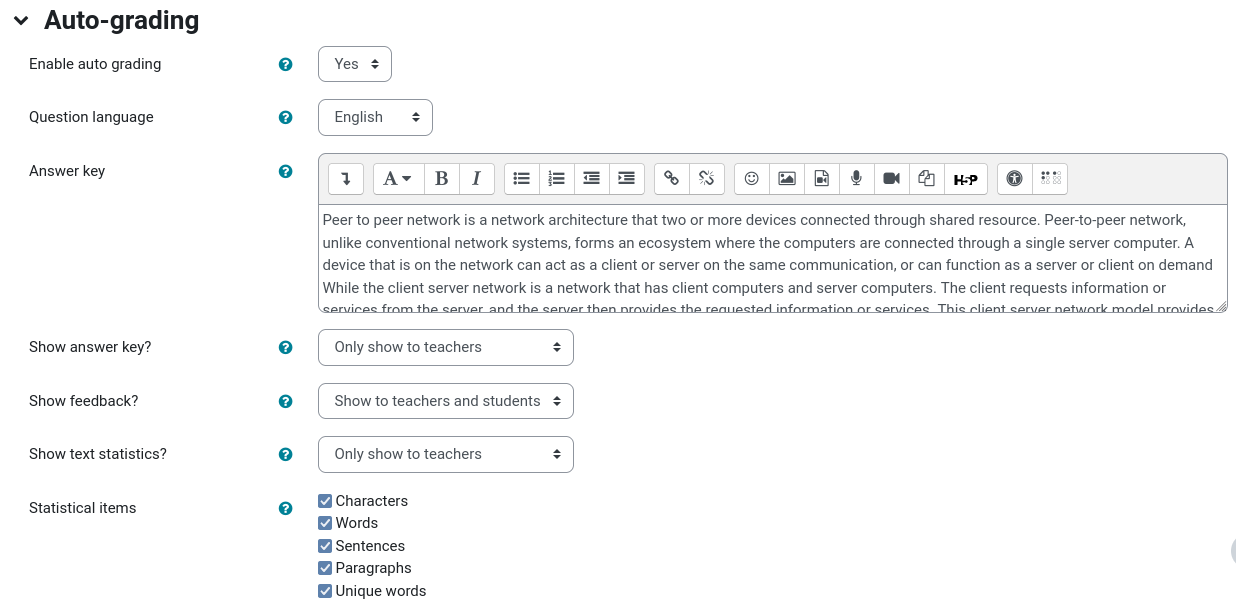
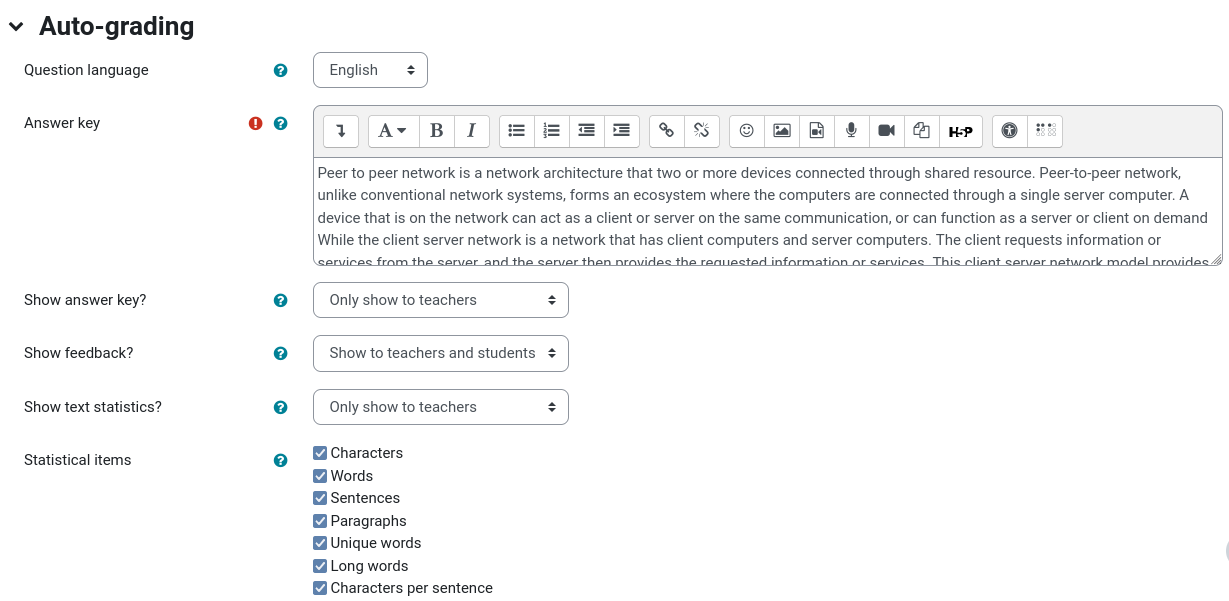
remove enable auto grading option

diff --git a/edit_essaysimilarity_form.php b/edit_essaysimilarity_form.php
@@ -56,26 +56,18 @@ class qtype_essaysimilarity_edit_form extends qtype_essay_edit_form {
     $mform->addElement('header', $header_name, $header_label);
     $mform->setExpanded($header_name, true);
 
-    $name = 'enableautograde';
-    $label = get_string($name, $plugin);
-    $mform->addElement('selectyesno', $name, $label);
-    $mform->setType($name, PARAM_INT);
-    $mform->setDefault($name, $this->get_default($name, 1));
-    $mform->addHelpButton($name, $name, $plugin);
-
     $name = 'questionlanguage';
     $label = get_string($name, $plugin);
     $mform->addElement('select', $name, $label, $this->language_options());
     $mform->addHelpButton($name, $name, $plugin);
     $mform->setType($name, PARAM_TEXT);
     $mform->setDefault($name, $this->get_default($name, $this->get_constant('NO_LANG')));
-    $mform->disabledIf($name, 'enableautograde', 'eq', 0);
     
     $name = 'answerkey';
     $label = get_string($name, $plugin);
     $mform->addElement('editor', $name, $label, [], $this->editoroptions);
     $mform->addHelpButton($name, $name, $plugin);
-    $mform->disabledIf($name, 'enableautograde', 'eq', 0);
+    $mform->addRule($name, get_string('requiredanswerkey', $plugin), 'required' , '', 'client');
 
     $name = 'showanswerkey';
     $label = get_string($name, $plugin);
@@ -83,7 +75,6 @@ class qtype_essaysimilarity_edit_form extends qtype_essay_edit_form {
     $mform->addHelpButton($name, $name, $plugin);
     $mform->setType($name, PARAM_INT);
     $mform->setDefault($name, $this->get_default($name, $this->get_constant('SHOW_NONE')));
-    $mform->disabledIf($name, 'enableautograde', 'eq', 0);
 
     $name = 'showfeedback';
     $label = get_string($name, $plugin);
@@ -91,7 +82,6 @@ class qtype_essaysimilarity_edit_form extends qtype_essay_edit_form {
     $mform->addHelpButton($name, $name, $plugin);
     $mform->setType($name, PARAM_INT);
     $mform->setDefault($name, $this->get_default($name, $this->get_constant('SHOW_TEACHERS_AND_STUDENTS')));
-    $mform->disabledIf($name, 'enableautograde', 'eq', 0);
 
     $name = 'showtextstats';
     $label = get_string($name, $plugin);
@@ -99,7 +89,6 @@ class qtype_essaysimilarity_edit_form extends qtype_essay_edit_form {
     $mform->addHelpButton($name, $name, $plugin);
     $mform->setType($name, PARAM_INT);
     $mform->setDefault($name, $this->get_default($name, $this->get_constant('SHOW_TEACHERS_ONLY')));
-    $mform->disabledIf($name, 'enableautograde', 'eq', 0);
 
     $name = 'textstatitems';
     $label = get_string($name, $plugin);
@@ -110,7 +99,6 @@ class qtype_essaysimilarity_edit_form extends qtype_essay_edit_form {
     }
     $mform->addGroup($elements, $name, $label, html_writer::empty_tag('br'), false);
     $mform->addHelpButton($name, $name, $plugin);
-    $mform->disabledIf($name, 'enableautograde', 'eq', 0);
     $mform->disabledIf($name, 'showtextstats', 'eq', $this->get_constant('SHOW_NONE'));
 
     foreach ($options as $value => $text) {
@@ -147,7 +135,6 @@ class qtype_essaysimilarity_edit_form extends qtype_essay_edit_form {
     $prevsection = 'responseoptions';
     $names = [
       'autograding',
-      'enableautograde',
       'questionlanguage',
       'answerkey',
       'showanswerkey',
@@ -167,7 +154,6 @@ class qtype_essaysimilarity_edit_form extends qtype_essay_edit_form {
     if (empty($question->options)) return $question;
 
     // Initialize fields that has numeric value.
-    $question->enableautograde = $question->options->enableautograde;
     $question->showanswerkey = $question->options->showanswerkey;
     $question->showfeedback = $question->options->showfeedback;
     $question->showtextstats = $question->options->showtextstats;

diff --git a/questiontype.php b/questiontype.php
@@ -61,7 +61,6 @@ class qtype_essaysimilarity extends question_type {
       "filetypeslist",
       "graderinfo",
       "graderinfoformat",
-      "enableautograde",
       "showfeedback",
       "answerkey",
       "answerkeyformat",
@@ -111,7 +110,6 @@ class qtype_essaysimilarity extends question_type {
       "filetypeslist"           => isset($question->filetypeslist) ? $question->filetypeslist : '',
       "graderinfo"              => $graderinfo,
       "graderinfoformat"        => $question->graderinfo['format'],
-      "enableautograde"         => $question->enableautograde,
       "showfeedback"            => $question->showfeedback,
       "answerkey"               => $question->answerkey['text'],
       "answerkeyformat"         => $question->answerkey['format'],
@@ -163,7 +161,6 @@ class qtype_essaysimilarity extends question_type {
       "filetypeslist"           => '',
       "graderinfo"              => '',
       "graderinfoformat"        => 0,
-      "enableautograde"         => 1,
       "showfeedback"            => self::SHOW_TEACHERS_AND_STUDENTS,
       "answerkey"               => '',
       "answerkeyformat"         => 1,

diff --git a/lang/en/qtype_essaysimilarity.php b/lang/en/qtype_essaysimilarity.php
@@ -32,8 +32,6 @@ $string['charspersentence'] = 'Characters per sentence';
 
 $string['datetime'] = '{$a->datetime}';
 
-$string['enableautograde'] = 'Enable auto grading';
-$string['enableautograde_help'] = 'If enabled, the answer of the student will be automatically graded';
 $string['explanationdatetime'] = '%d %b %Y at %H:%M';
 $string['explanationoverride'] = 'The grade for this essay was manually set to {$a->manualgrade}.';
 
@@ -79,6 +77,7 @@ $string['questionlanguage_link'] = 'https://github.com/thoriqadillah/essaysimila
 
 $string['responseisnotoriginal'] = 'Please provide your own answer';
 $string['requiredfilecount'] = 'Required number of files: {$a}';
+$string['requiredanswerkey'] = 'Answer key is required';
 
 $string['sentences'] = 'Sentences';
 $string['sentencesperparagraph'] = 'Sentences per paragraph';

diff --git a/question.php b/question.php
@@ -32,9 +32,7 @@ require_once('nlp/cosine_similarity.php');
 class qtype_essaysimilarity_question extends qtype_essay_question implements question_automatically_gradable {
 
   public function make_behaviour(question_attempt $qa, $preferredbehaviour) {
-    if ($this->enableautograde) return question_engine::make_archetypal_behaviour($preferredbehaviour, $qa);
-
-    return question_engine::make_behaviour('manualgraded', $qa, $preferredbehaviour);
+    return question_engine::make_archetypal_behaviour($preferredbehaviour, $qa);
   }
   
   /**

diff --git a/README.md b/README.md
@@ -1,6 +1,6 @@
 # Essay Similarity Checker
 Is a moodle question type plugin that compares the similarity between student's answer and teacher's answer key using cosine similarity algorithm, and uses the similarity to auto grade the answer. The automatic grade can be manually overridden by the teacher
-
+## Previews
 ![preview1](pix/preview1.png)
 ![preview2](pix/preview2.png)
 ![preview3](pix/preview3.png)
@@ -9,7 +9,7 @@ Is a moodle question type plugin that compares the similarity between student's 
 ![preview6](pix/preview6.png)
 ## Features
 - Auto grading
-- Question language specific (for pre-processing purpose)
+- Support every language (see note)
 - Answer key
 - Statistical text
 - Show/hide the answer key, statistical text, and feedback to student/teacher/both
@@ -27,9 +27,10 @@ Download the zip and extract it to the question/type inside your moodle root dir
 After that go to site administration page and it should shows that new plugin is present
 
 ## Note
-This plugin does not intent to replace teacher evaluation for grading student response. Instead, what this plugin intent is to help easen teacher's evaluation process. For example, if multiple responses has similarity 0.80, 0.88, 0.78, 0.30, and 0.25, maybe you should only manually re-evaluate the student's response with the score 0.30 and 0.25, and only quick skim the rest for final grading
+- This plugin does not intent to replace teacher evaluation for grading student response. Instead, what this plugin intent is to help easen teacher's evaluation process. For example, if multiple responses has similarity 0.80, 0.88, 0.78, 0.30, and 0.25, maybe you should only manually re-evaluate the student's response with the score 0.30 and 0.25, and only quick skim the rest for final grading
+- In general, this plugin supports every language, but this plugin will be more accurate if it has the implementation of specific language for pre-processing. You can select `none` if your language is not detected in question language option
 ## Add Your Language
-Pre-processing is pretty important to improve the accuracy of the similarity checker. For default, this plugin only support Indonesia and English. If your language is not detected in Question Language option, you should choose `none` on the option. And if you want to add your language, you need to do the following:
+Pre-processing is pretty important to improve the accuracy of the similarity checker. Pre-processing will clean the documents such as removing stopwords, stem the words and weight the value of each word so the documents we are comparing is in the same class. If you select `none`, it will only do the weighting for each word. If you want to add your language, you need to do the following:
 
 1. Add list of stopword of your language inside `essaysimilarity/nlp/preprocessing/stopword/lang`, and add a file named with [ISO 639-1](https://en.wikipedia.org/wiki/List_of_ISO_639-1_codes) of your language. For example, english is en, therefore the name is `en.php`. And inside the file, return an array of list of the stopword
 ```php
